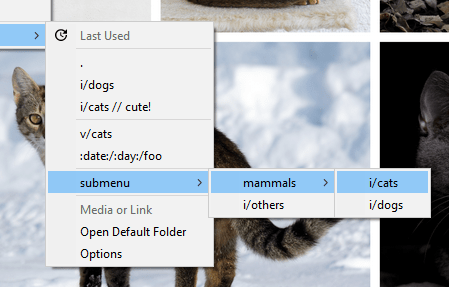
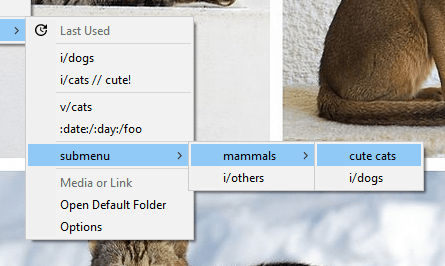
Add aliases (#64)
#64

diff --git a/src/menu.js b/src/menu.js
@@ -11,6 +11,8 @@ const Menus = {
     ROOT: "save-in-_-_-root"
   },
 
+  titles: {},
+
   makeSeparator: (() => {
     let separatorCounter = 0;
 
@@ -159,6 +161,26 @@ const Menus = {
     }
   },
 
+  parseMeta: comment => {
+    const matches = comment.match(/\(.+?:.+?\)+/g);
+
+    if (!matches) {
+      return {};
+    }
+
+    return matches
+      .map(pair =>
+        pair
+          .replace(/(^\(|\)$)/g, "")
+          .split(":")
+          .map(val => val.trim())
+      )
+      .reduce((acc, kv) => {
+        const key = kv[0];
+        return Object.assign(acc, { [key]: kv.slice(1).join(" ") });
+      }, {});
+  },
+
   addPaths: (pathsArray, contexts) => {
     const menuItemCounter = { 0: 0 };
 
@@ -186,7 +208,12 @@ const Menus = {
         }
 
         const comment = (tokens[1] || "").trim();
-        const title = `${parsedDir}${comment ? ` // ${comment}` : ""}`;
+        const meta = Menus.parseMeta(comment);
+
+        const title =
+          meta.alias != null
+            ? meta.alias
+            : `${parsedDir}${comment ? ` // ${comment}` : ""}`;
 
         const arrows = depthMatch[1] || "";
         const depth = arrows.length;
@@ -211,6 +238,8 @@ const Menus = {
         }
         lastDepth = depth;
         pathsNestingStack = pathsNestingStack.slice(0, depth + 1);
+
+        Menus.titles[id] = title;
 
         browser.contextMenus.create({
           id,
@@ -282,9 +311,7 @@ const Menus = {
         } else {
           saveIntoPath = matchedDir;
           lastUsedPath = saveIntoPath;
-          const title = comment
-            ? `${lastUsedPath}${comment ? ` // ${comment}` : ""}`
-            : lastUsedPath;
+          const title = Menus.titles[info.menuItemId] || lastUsedPath;
 
           if (options.enableLastLocation) {
             browser.contextMenus.update("save-in-_-_-last-used", {

diff --git a/src/options/options.html b/src/options/options.html
@@ -54,7 +54,7 @@ v/cats
 ---
 submenu
 >mammals
->>i/cats
+>>i/cats // (alias: cute cats)
 >>i/dogs
 >i/others
 </pre>
@@ -72,7 +72,7 @@ submenu
 ---
 (submenu)
 (submenu)
-~/downloads/i/cats
+~/downloads/i/cats (shows up as "cute cats")
 ~/downloads/i/dogs
 ~/downloads/i/others
 </pre>
@@ -92,6 +92,16 @@ submenu
 
 </pre>
         </div>
+
+        <h4>Comments and aliases</h4>
+
+        <p>To add comments, add <code>//</code> to the end of a line. For example, <code>cats // very cute!</code>.</p>
+
+        <p>To change display names of menu items, add <code>(alias: display name)</code> to comments. For example, <code>cats // very cute! (alias: cute cats)</code>. The menu item will then show "cute cats" instead of "cats".</p>
+
+        <h4>Submenus</h4>
+
+        <p>To create submenus, add <code>&gt;</code>s to the line itself. An example can be seen above.</p>
 
         <p>Note: You can only save relative to the default download directory. See the next guide for a workaround.</p>
       </div>

diff --git a/src/option.js b/src/option.js
@@ -42,7 +42,7 @@ const OptionsManagement = {
       type: T.VALUE,
       onSave: v => v.trim() || ".",
       default:
-        ".\nimages\nimages/cute\nvideos\n\nsubmenu\n>submenu/subdir\n>>submenu/subdir/2\n>submenu/subdir2 // comments"
+        ".\nimages\nimages/cute\nvideos\n\nsubmenu\n>submenu/subdir\n>>submenu/subdir/2 // (alias: actual display name)\n>submenu/subdir2 // comments"
     },
     { name: "prompt", type: T.BOOL, default: false },
     { name: "promptIfNoExtension", type: T.BOOL, default: false },

diff --git a/test/menu.test.js b/test/menu.test.js
@@ -1,0 +1,12 @@
+const menu = require("../src/menu.js");
+
+test("parses comments for metadata", () => {
+  const input = "(alias: doggo is (cute!)) cats (foo:bar)";
+  const actual = menu.parseMeta(input);
+
+  const expected = {
+    alias: "doggo is (cute!)",
+    foo: "bar"
+  };
+  expect(actual).toEqual(expected);
+});

diff --git a/CHANGELOG.md b/CHANGELOG.md
@@ -1,8 +1,17 @@
 # 3.1.0
 
+* Add menu item aliasing (#64)
+
+  To use this, put an `(alias: <display name>)` in the comments for that line. For example:
+
+  ```
+  cats // (alias: actually dogs)
+  ```
+
 * Add submenu support (#26)
 
   To use this, add `>`s at the start of the line. For example:
+
   ```
   submenu
   >mammals
